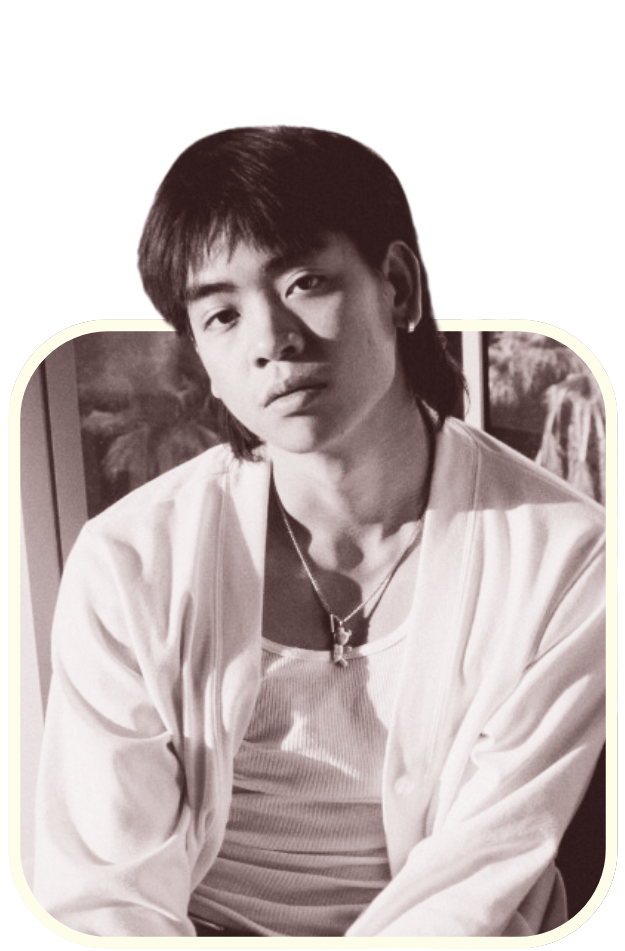
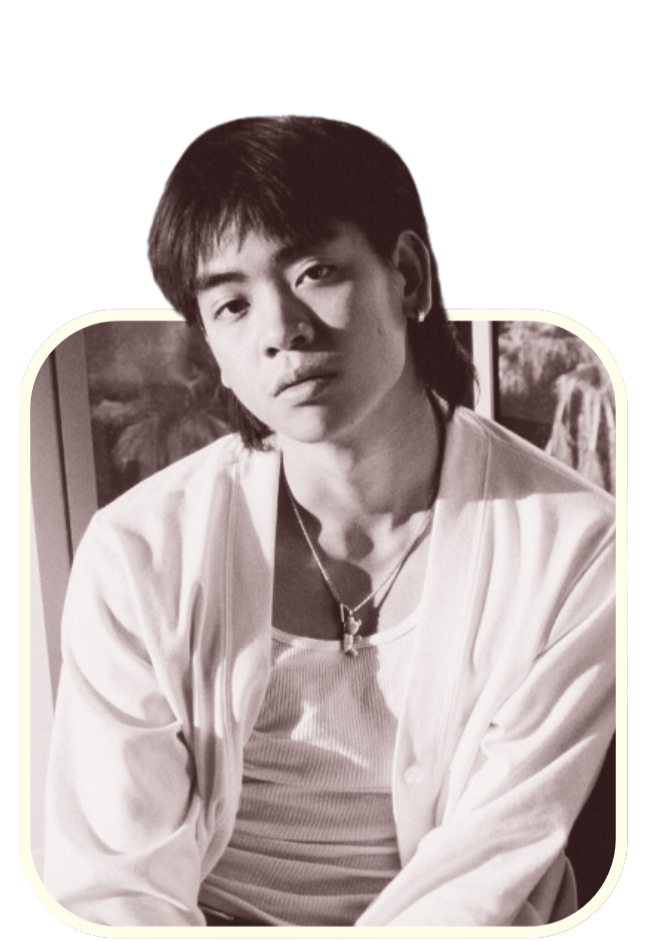
final image resize

diff --git a/app/keraton/performers.tsx b/app/keraton/performers.tsx
@@ -18,7 +18,7 @@ export default function Performers() {
     >
       <div className="content-center w-5/6 lg:w-2/3 justify-center items-center mx-auto">
         <KeratonHeader title={"OUR PERFORMERS"} red={true} />
-        <div className="content-center justify-center items-center mx-auto  flex gap-5">
+        <div className="content-center justify-center items-center mx-auto flex gap-5">
           <div
             className="flex flex-col text-center item-center w-40 lg:w-96 mx-auto flex-initial hover:animate-wiggle"
             data-aos="flip-right"
@@ -27,8 +27,8 @@ export default function Performers() {
             <Image
               className="pb-8"
               src="/images/rocco.png"
-              width={30}
-              height={30}
+              width={32}
+              height={32}
               layout="responsive"
               alt="LYN LAPID"
             />
